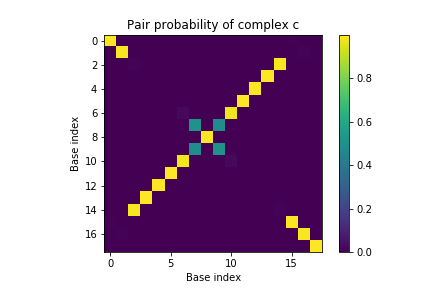
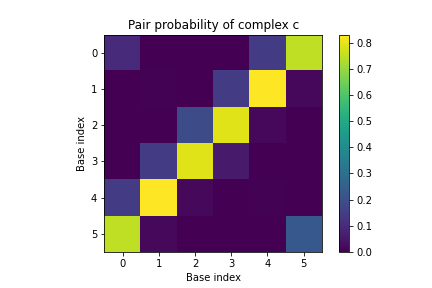
Add examples

diff --git a/sources/analysis.md b/sources/analysis.md
@@ -155,7 +155,7 @@ Note that tube `t1` defines a set of complexes (all complexes of up to `max_size
 complex_results
 ```
 
-Output: 
+Output:
 
 > <img src="/figs/complex-analysis-output.png" alt="Complex analysis output" title="Example complex analysis output" width="270" />
 
@@ -167,7 +167,7 @@ Use the `complex_concentrations` command to calculate the [equilibrium concentra
 
 ```python
  # specify strand concentrations for t1
-concentration_results = complex_concentrations(t1, complex_results,  
+concentration_results = complex_concentrations(t1, complex_results,
     concentrations={a: 1e-8, b: 1e-8})
 
 # use strand concentrations previously specified for t2
@@ -184,7 +184,7 @@ Note that `complex_concentrations` operates on a single tube ensemble at a time 
 concentration_results
 ```
 
-Output: 
+Output:
 
 > <img src="/figs/concentration-analysis-output.png" alt="Concentration analysis output" title="Example concentration analysis output" width="180" />
 
@@ -246,14 +246,14 @@ print(result)
 
 Output:
 
-> ```python
+> ```
 > Complex results:
->   complex      pfunc free_energy     mfe
-> 0   [a+b]  9.1286e+7     -11.297 -10.961
-> 1     [a]  1.0148e+0      -0.009   0.000
-> 2     [b]  1.0056e+0      -0.003   0.000
+>   Complex      Pfunc dG (kcal/mol) MFE (kcal/mol)
+> 0   [a+b]  9.1286e+7       -11.297        -10.961
+> 1     [a]  1.0148e+0        -0.009          0.000
+> 2     [b]  1.0056e+0        -0.003          0.000
 > Concentration results:
->   complex        t1        t2
+>   Complex    t1 (M)    t2 (M)
 > 0   [a+b] 6.185e-10 1.594e-11
 > 1     [a] 9.994e-07 9.984e-09
 > 2     [b] 3.815e-10 9.841e-10
@@ -273,29 +273,100 @@ More detailed results can also be displayed by programmatic access into the `Ana
 - `.complexes`: a Python `dict` mapping each `Complex` to a [`ComplexResult`](#individual-complex-results)
 - `.tubes`: a Python `dict` mapping each `Tube` to a [`TubeResult`](#individual-tube-results)
 
- For convenience, you can index into a [`TubeResult`](#individual-tube-results) via a `Tube` :
+For convenience, you can index into a [`TubeResult`](#individual-tube-results) via a `Tube` or `Complex`.
 
-<!-- I'm not sure this indexing is a good idea. Maybe better to just use the `complexes` and `tubes` fields separately. -->
+Consider the following analysis calculation's result:
 
 ```python
-result[t1] # --> TubeResult for tube t1
+a = Strand('CCC', name='a')
+b = Strand('GGG', name='b')
+c = Complex([a, b])
 
-result[t1].complex_concentrations  # --> [1.5e-10]
-result[t1].ensemble_pair_fractions # --> [[1.0, 0.0], [0.0, 1.0]]
+t1 = Tube([a, b], concentrations=[1e-6, 1e-9], include=[c], name='t1')
+t2 = Tube([a, b], concentrations=[1e-8, 1e-9], include=[c], name='t2')
+
+result = tube_analysis([t1, t2],
+    compute=['pfunc', 'pairs', 'mfe', 'sample', 'subopt'],
+    options={'num_sample': 2, 'energy_gap': 0.5})
+```
+
+Access tube properties by indexing the result by a `Tube` object:
+
+```python
+t1_result = result[t1]
+```
+
+Concentrations are held as a Python `dict` which may be printed as follows:
+
+```python
+for my_complex, conc in t1_result.complex_concentrations.items():
+    print('The concentration of %s is %.3e M' % (my_complex, conc))
+```
+
+Output:
+
+```
+The concentration of CCC is 1.000e-06 M
+The concentration of CCC+GGG is 8.207e-14 M
+The concentration of GGG is 9.999e-10 M
+```
+
+If calculated, the ensemble pair fractions may be printed as follows:
+
+```python
+print(t1_result.ensemble_pair_fractions)
+```
+
+Output:
+
+```
+[[1.000e+00 0.000e+00 0.000e+00 5.653e-11 1.209e-08 6.170e-08]
+ [0.000e+00 1.000e+00 0.000e+00 1.210e-08 6.817e-08 1.497e-09]
+ [0.000e+00 0.000e+00 1.000e+00 6.492e-08 1.518e-09 6.893e-12]
+ [5.653e-08 1.210e-05 6.492e-05 9.999e-01 0.000e+00 0.000e+00]
+ [1.209e-05 6.817e-05 1.518e-06 0.000e+00 9.999e-01 0.000e+00]
+ [6.170e-05 1.497e-06 6.893e-09 0.000e+00 0.000e+00 9.999e-01]]
 ```
 
 You can also index into the result via a `Complex` to get its complex ensemble results, held in a `ComplexResult`. For instance:
 
 ```python
-result[c]
-# pfunc for complex c
-result[c].pfunc
-# mfe for complex c
-result[c].mfe
-# mfe structures for complex c (in many cases a list of length 1)
-result[c].mfe_structures
-# ppairs matrix for complex c
-result[c].pairs
+c_result = result[c]
+```
+
+The held result contains multiple attributes which can be looked up, depending on which types of analysis calculations were requested. For example:
+
+```python
+print('The free energy of complex c is %.2f kcal/mol' % c_result.free_energy)
+print('\nThe partition function of complex c is %.2e' % c_result.pfunc)
+print('\nThe MFE of complex c is %.2f kcal/mol' % c_result.mfe)
+
+print('\nMFE structures for complex c:')
+for struc in c_result.mfe_structures:
+    print('--', struc)
+
+print('\nThe pair probabilities of complex c are: \n%s' % c_result.pairs)
+```
+
+Output:
+
+```
+The free energy of complex c is -5.19 kcal/mol
+
+The partition function of complex c is 4.53e+03
+
+The MFE of complex c is -4.98 kcal/mol
+
+MFE structures for complex c:
+-- StructureEnergy('(((+)))', energy=-4.98, stack_energy=-4.98)
+
+The pair probabilities of complex c are:
+[[1.002e-01 0.000e+00 0.000e+00 6.888e-04 1.474e-01 7.518e-01]
+ [0.000e+00 3.684e-03 0.000e+00 1.474e-01 8.307e-01 1.824e-02]
+ [0.000e+00 0.000e+00 1.904e-01 7.910e-01 1.849e-02 8.399e-05]
+ [6.888e-04 1.474e-01 7.910e-01 6.088e-02 0.000e+00 0.000e+00]
+ [1.474e-01 8.307e-01 1.849e-02 0.000e+00 3.470e-03 0.000e+00]
+ [7.518e-01 1.824e-02 8.399e-05 0.000e+00 0.000e+00 2.299e-01]]
 ```
 
 Using this, you can easily plot a pair probability matrix visually inside a Jupyter notebook. For example:
@@ -304,13 +375,15 @@ Using this, you can easily plot a pair probability matrix visually inside a Jupy
 %matplotlib inline
 import matplotlib.pyplot as plt
 
-plt.imshow(result[c].pairs.to_array())
+plt.imshow(c_result.pairs.to_array())
 plt.xlabel('Base index')
 plt.ylabel('Base index')
 plt.title('Pair probability of complex c')
 plt.colorbar()
 plt.savefig('my-figure.pdf') # optionally, save a PDF of your figure
 ```
+
+Output:
 
 > <img src="/figs/pairs-output.png" alt="Pair probability output" title="Example pair probability output" width="450" />
 
@@ -319,17 +392,20 @@ plt.savefig('my-figure.pdf') # optionally, save a PDF of your figure
 You can collect complex ensemble information for all calculated complexes easily as well. Since `result.complexes` is an ordinary python `dict`, iterating through its `.items()` will let you collect each complex result. For example, to iterate through the pair probabilitis for each complex:
 
 ```python
+import numpy as np
+
 for my_complex, complex_result in result.complexes.items():
     P = complex_result.pairs.to_array()
-    print('Expected number of unpaired nucleotides in complex {} = {:.2f}'.format(my_complex.name, np.diagonal(P).sum()))
+    s = 'Expected number of unpaired nucleotides in complex %s = %.2f'
+    print(s % (my_complex.name, np.diagonal(P).sum()))
 ```
 
 Output:
 
 ```
-Expected number of unpaired nucleotides in complex [a+b] = 6.85
-Expected number of unpaired nucleotides in complex [a] = 8.97
-Expected number of unpaired nucleotides in complex [b] = 8.98
+Expected number of unpaired nucleotides in complex [a+b] = 0.59
+Expected number of unpaired nucleotides in complex [a] = 3.00
+Expected number of unpaired nucleotides in complex [b] = 3.00
 ```
 
 To collect a `dict` of MFEs for each complex:
@@ -352,7 +428,7 @@ To print out the complex concentrations for a given tube:
 
 ```python
 for my_complex, conc in result.tubes[t1].complex_concentrations.items():
-    print('The concentration of {} is {:.2e}'.format(my_complex.name, conc))
+    print('The concentration of %s is %.2e' % (my_complex, conc))
 ```
 
 Output:
